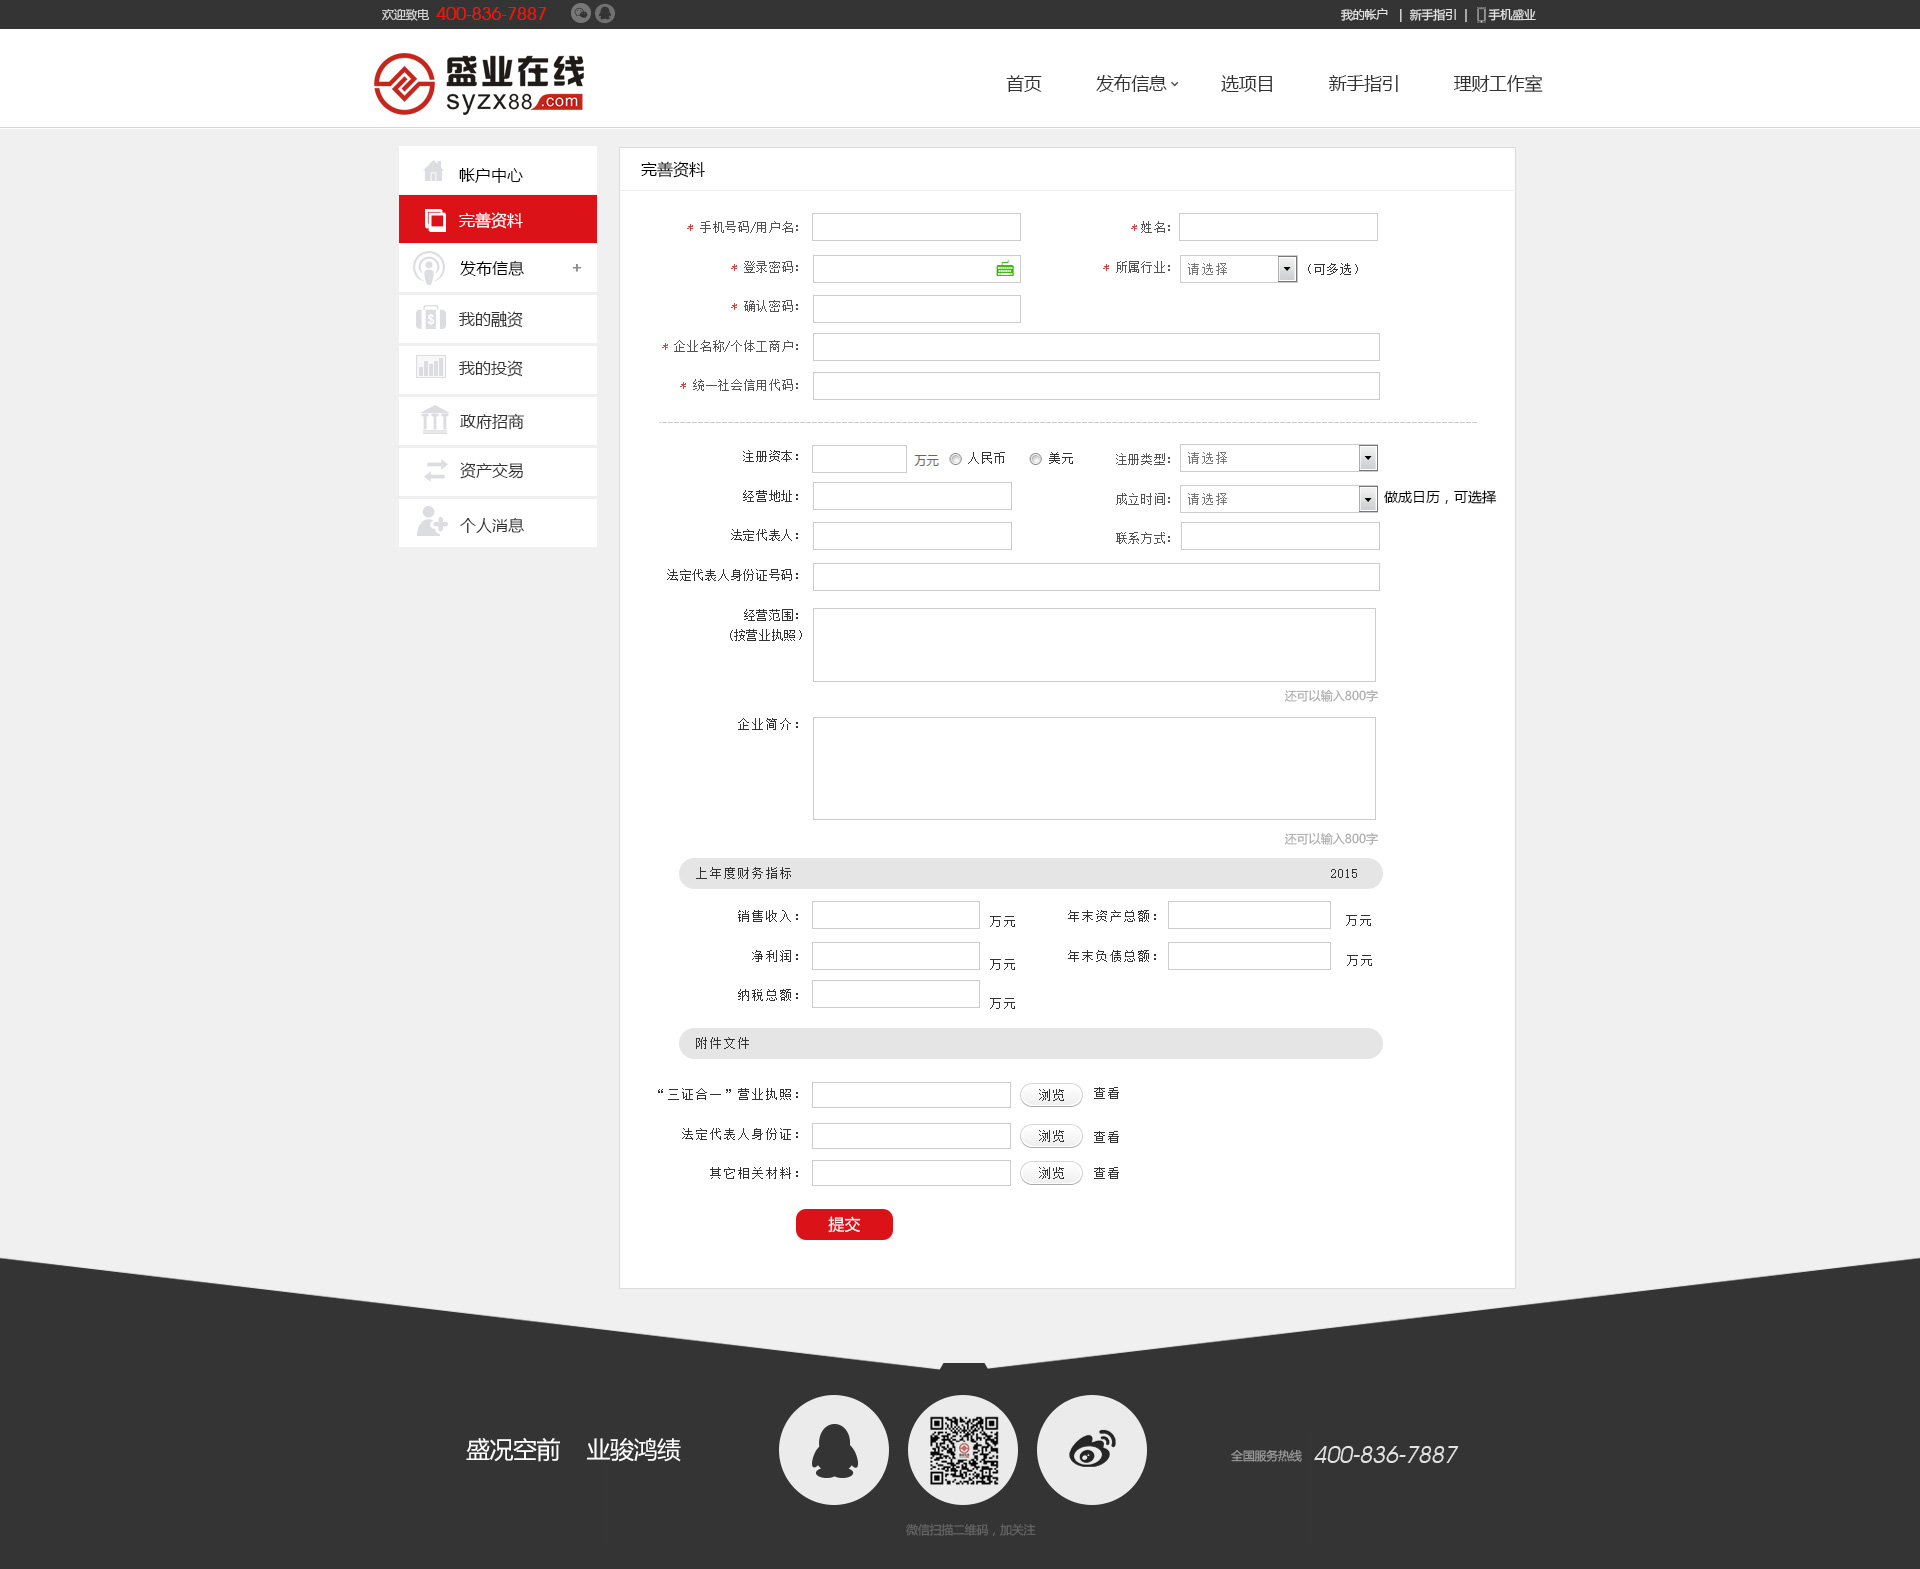
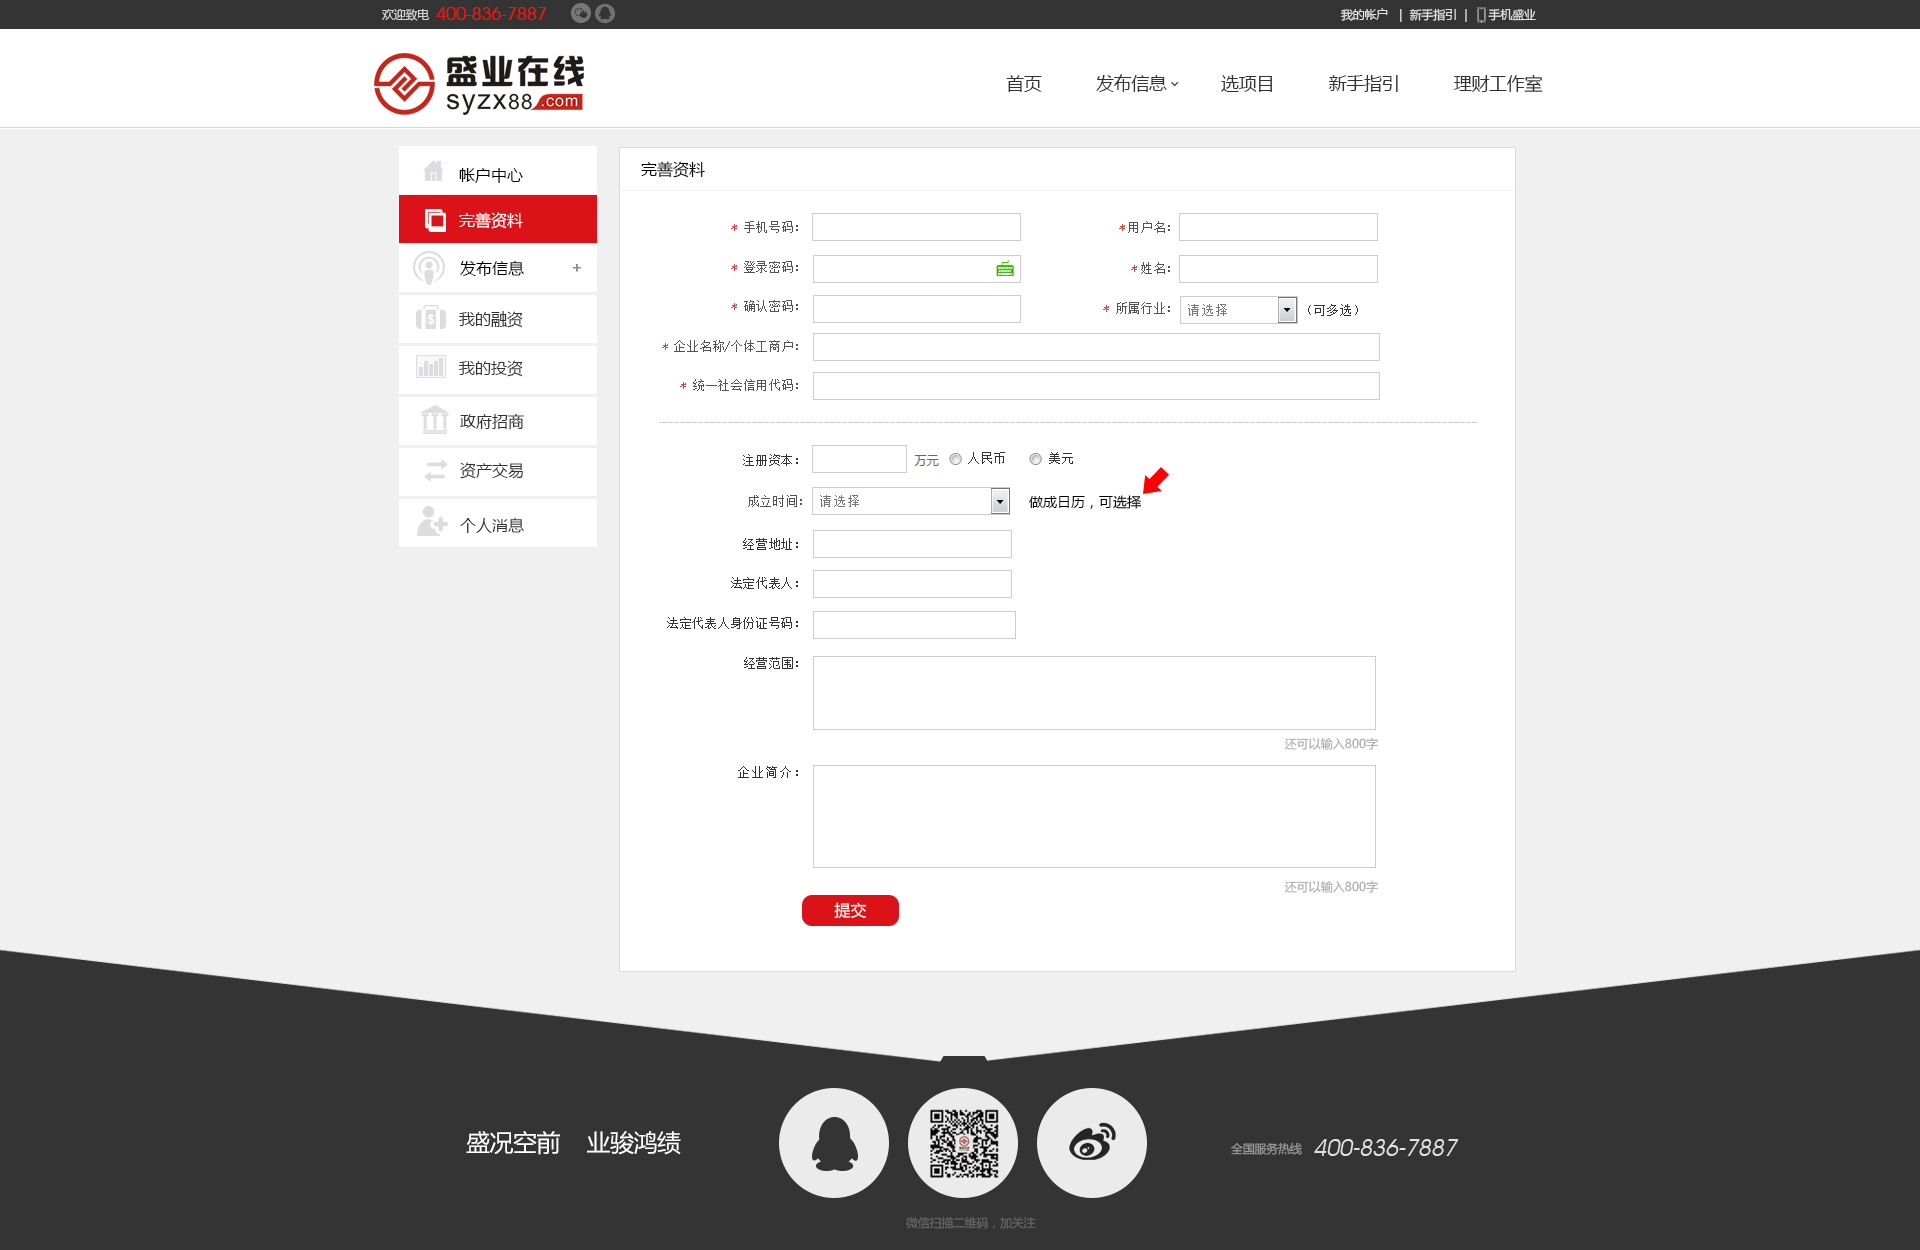
test

diff --git a/wszl.html b/wszl.html
@@ -9,7 +9,7 @@
 <body bgcolor="#E2E2E2" leftmargin="0" topmargin="0" marginwidth="0" marginheight="0">
 <table width="100%" border="0" cellspacing="0" cellpadding="0" style="background:url(images/wszlx.jpg) no-repeat center center;">
   <tr>
-    <td width="100%" height="1569">&nbsp;</td>
+    <td width="100%" height="1250">&nbsp;</td>
   </tr>
 </table>
 
